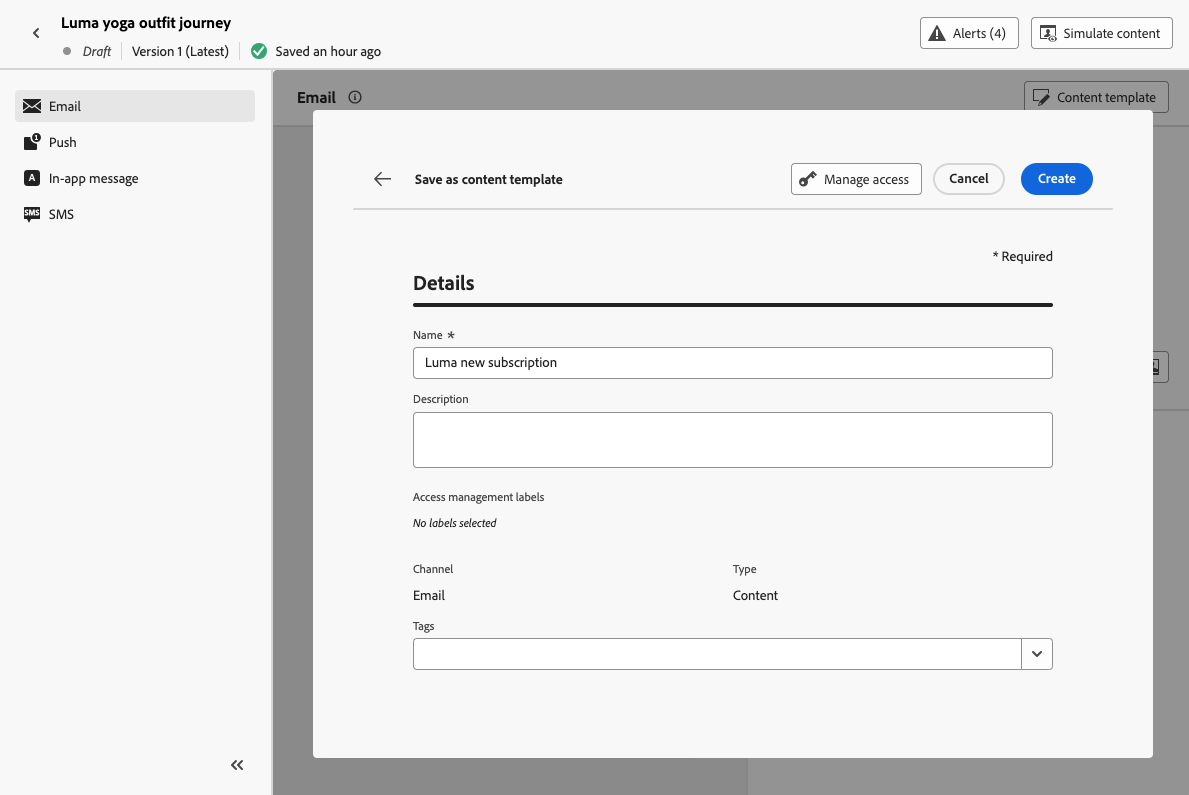
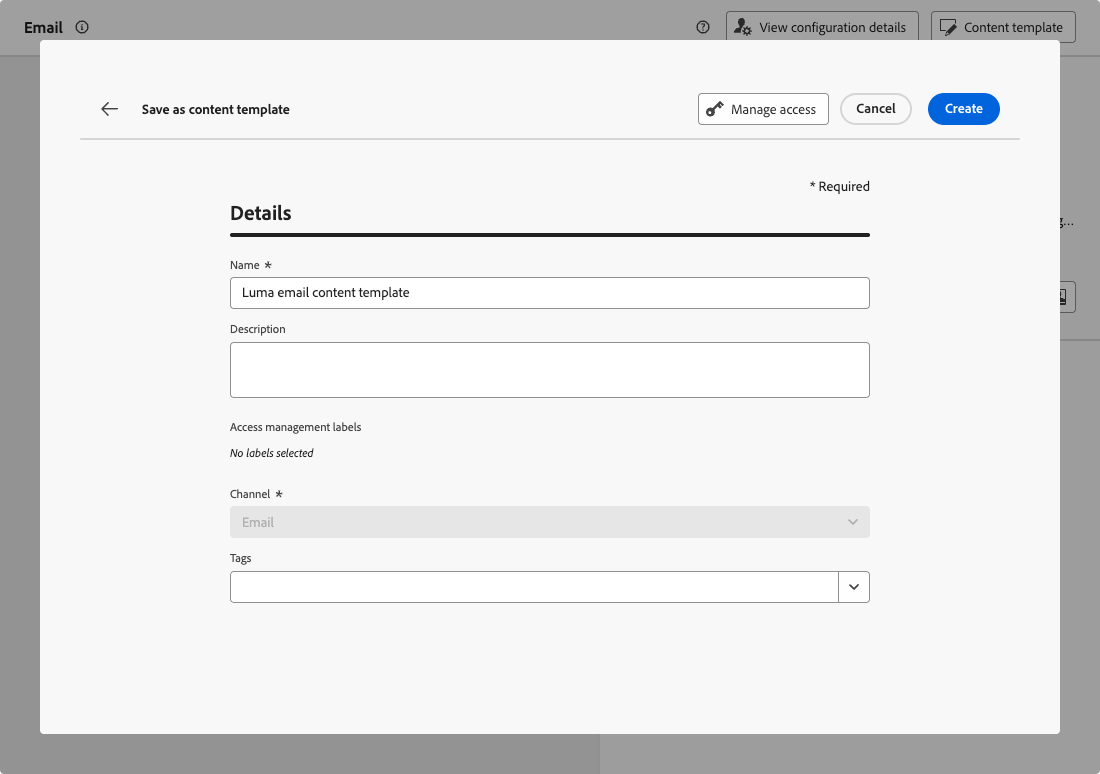
DOCAC-12548 - HTML content templates deprecated

diff --git a/help/using/content-management/create-content-templates.md b/help/using/content-management/create-content-templates.md
@@ -18,7 +18,7 @@ exl-id: a205539b-b7ea-4832-92b0-49637c4dac47
 
 There are two ways you can create content templates:
 
-* Create a content template from scratch, using the left rail **[!UICONTROL Content Templates]** menu. [Learn how](#create-template-from-scratch)
+* Create a content template from scratch, using the left rail **[!UICONTROL Content templates]** menu. [Learn how](#create-template-from-scratch)
 
 * When designing your content within a campaign or a journey, save it as a template. [Learn how](#save-as-template)
 
@@ -31,6 +31,10 @@ Once saved, your content template is available for use in a campaign or a journe
 >* Similarly, when templates are used in a campaign or a journey, any edits you make to your campaign and journey content do not impact the previously used content template.
 
 ## Create template from scratch {#create-template-from-scratch}
+
+>[!NOTE]
+>
+>Starting from March 2025, HTML type content templates are now deprecated. You can still use existing HTML content templates previously created in [!DNL Journey Optimizer].
 
 To create a content template from scratch, follow the steps below.
 
@@ -45,14 +49,6 @@ To create a content template from scratch, follow the steps below.
     >[!NOTE]
     >
     >Currently all channels are available except Web.
-
-1. Choose a **[!UICONTROL Type]** for the selected channel.
-
-    ![](assets/content-template-type.png)
-
-    * For **[!UICONTROL Email]**, if you select **[!UICONTROL Content]**, you can define the [Subject line](../email/create-email.md#define-email-content) as part of your template. If you select **[!UICONTROL HTML]**, you can only define the content of the email body.
-
-    * For **[!UICONTROL SMS]**, **[!UICONTROL Push]**, **[!UICONTROL In-App]** and **[!UICONTROL Direct Mail]**, only the default type is available for the current channel. You still need to select it.
 
 1. Select or create Adobe Experience Platform tags from the **[!UICONTROL Tags]** field to categorize your template for improved search. [Learn more](../start/search-filter-categorize.md#tags)
 
@@ -69,7 +65,7 @@ To create a content template from scratch, follow the steps below.
     * [Define direct mail content](../direct-mail/create-direct-mail.md)
     * [Define In-app content](../in-app/design-in-app.md)
 
-1. If you are creating an **[!UICONTROL Email]** template with the **[!UICONTROL HTML]** type, you can test your content. [Learn how](#test-template)
+1. You can test your content. [Learn how](#test-template)
 
 1. Once your template is ready, click **[!UICONTROL Save]**.
 
@@ -104,7 +100,7 @@ When designing any content in a campaign or a journey, you can save it for futur
 
     >[!NOTE]
     >
-    >The current channel and type are automatically filled in and cannot be edited. For email templates created from the [Email Designer](../email/get-started-email-design.md), the **[!UICONTROL HTML]** type is automatically selected.
+    >The current channel is automatically filled in and cannot be edited.
 
 1. Select or create an Adobe Experience Platform tag from the **Tags** field to categorize your template. [Learn more](../start/search-filter-categorize.md#tags)
 

diff --git a/help/using/rn/release-notes.md b/help/using/rn/release-notes.md
@@ -238,6 +238,11 @@ As a reminder, daily frequency capping in rule sets is only available for a set 
 
 For more information on business rules, refer to the [detailed documentation](../configuration/rule-sets.md).
 
+**Content templates**
+
+HTML type content templates are now deprecated. Note that you can still use existing HTML content templates previously created in [!DNL Journey Optimizer]. [Learn more on content templates](../content-management/content-templates.md)
+
+
 <!--**Deliverability**
 
 You can now choose to have your emails relayed to your SMTP servers instead of being sent directly from Journey Optimizer to ISPs. This allows you to route final email deliveries through your own Mail Transfer Agents and IPs, or to perform final validations on the emails before sending them to your recipients. The SMTP relay capacity is available on demand - contact your Adobe representative.-->

diff --git a/help/using/content-management/content-templates.md b/help/using/content-management/content-templates.md
@@ -11,6 +11,10 @@ exl-id: 327de13a-1c99-4d5e-86cf-8180fb7aaf23
 ---
 
 # Get started with content templates {#content-templates}
+
+>[!NOTE]
+>
+>Starting from March 2025, HTML type content templates are now deprecated. You can still use existing HTML content templates previously created in [!DNL Journey Optimizer].
   
 For an accelerated and improved design process, you can create standalone templates to easily reuse custom content across [!DNL Journey Optimizer] campaigns and journeys.
 

diff --git a/help/using/content-management/access-content-templates.md b/help/using/content-management/access-content-templates.md
@@ -38,6 +38,10 @@ You can also choose to display only the items that yourself created or modified.
 
 ![](assets/content-template-list-filters.png)
 
+>[!NOTE]
+>
+>Starting from March 2025, HTML type content templates are now deprecated. You can still access existing HTML content templates previously created in [!DNL Journey Optimizer].
+
 ## Use folders to manage content templates {#folders}
 
 >[!AVAILABILITY]
